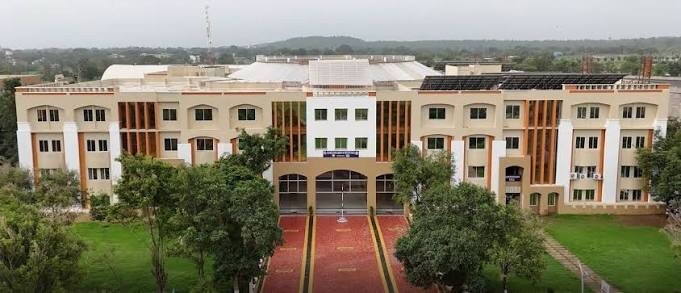
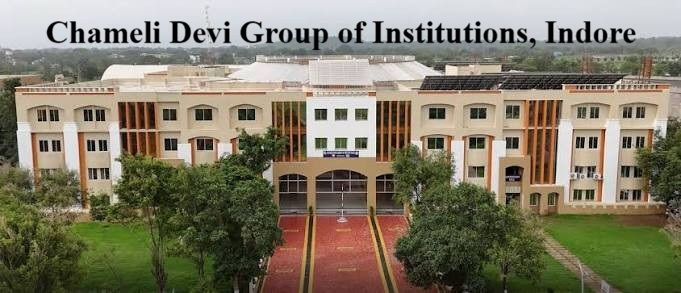
updated

Changed region(s): [[0.0617, 0.0614, 0.9559, 0.1843]]

diff --git a/css/style.css b/css/style.css
@@ -40,7 +40,7 @@ label {
 nav {
     display: flex;
     background-color: #0F172A;
-    padding: 20px;
+    padding: 30px;
 
 }
 
@@ -50,7 +50,8 @@ nav ul {
 }
 
 nav ul a {
-    padding: 20px;
+    padding: 30px;
+    margin: 0;
     text-decoration: none;
     color: white;
 }
@@ -201,6 +202,11 @@ form {
         /* line-height: 30px; */
     }
 
+    header img{
+        width: 100px;
+        height: 100px;
+    }
+
     /* 2. Hide the nav by default */
     nav {
         display: none;
@@ -252,8 +258,22 @@ form {
         padding: 10px;
     }
 
+
+
     aside,
     main {
         padding: 10px;
     }
+
+     aside img{
+        width: 100px;
+        height: 100px;
+    }
+
+      main img{
+        width: 90%;
+        height: 90%;
+    }
+
+
 }

diff --git a/signup.php b/signup.php
@@ -27,7 +27,7 @@ echo "Connection Ok";
     <style>
         fieldset {
             padding: 20px;
-            width:20%
+            width: 20%
         }
 
         input {
@@ -43,20 +43,19 @@ echo "Connection Ok";
     <?php include './include/header.php'; ?>
 
     <main>
-        <form name="f1" action="" method="POST" onsubmit="return checkpwd()">
+        <form name="f1" action="" method="POST" enctype="multipart/form-data" onsubmit="return checkpwd()">
             <fieldset>
                 <legend>Sign Up</legend>
                 <input type="text" name="fname" placeholder="First Name" required>
                 <br /><br /><input type="text" name="lname" placeholder="Last Name" required>
                 <br /><br /><input type="email" name="email" placeholder="Email" required>
-                <br /><br /><input type="password" name="password" id="pwd" pattern="(?=.*\d)(?=.*[a-z])(?=.*[A-Z]).{8,4}" 
-                placeholder="Password" title="Must contain at least one number and one uppercase and lowercase letter, and at least 8 or more characters" required>
-                <input type="checkbox" onclick="showpwd()" class="chkbox">
-                <br /><br /> <input type="password" name="cpassword" id="cpwd" placeholder="Confirm Password" required>
+                <br /><br /><input type="password" name="password" id="pwd" placeholder="Password" required>
+                <button type="button" onclick="showpwd()">&#128065;</button><br />
+               <br /> <input type="password" name="cpassword" id="cpwd" placeholder="Confirm Password" required>
                 <span id="pwdmsg"></span>
                 <br /><br /><input type="submit" value="Register" name="register">
                 <br /><br />
-                <p>Already registered? <a href="login_user.php">Click here to Login</a></p>
+                <p>Already registered? <a href="login.php">Click here to Login</a></p>
             </fieldset>
         </form>
     </main>
@@ -96,7 +95,6 @@ echo "Connection Ok";
         $email = $_POST['email'];
         $pwd = $_POST['password'];
         $cpwd = $_POST['cpassword'];
-
 
         $query = "INSERT INTO signup (fname, lname, email, password, cpassword) VALUES ('$fname', '$lname', '$email','$pwd', '$cpwd')";
 

diff --git a/login.php b/login.php
@@ -1,6 +1,25 @@
 <?php
 session_start();
 include 'connection.php';
+
+// 1. Process the login logic BEFORE any HTML is sent
+if (isset($_POST['login'])) {
+    $email      = $_POST['email'];
+    $password   = $_POST['password'];
+
+    // Note: This query is vulnerable to SQL injection (see security notice below)
+    $query = "SELECT * FROM signup WHERE email = '$email' AND password = '$password'";
+    $data = mysqli_query($conn, $query);
+
+    if (mysqli_num_rows($data) == 1) {
+        $_SESSION['user_name'] = $email;
+        header('location:display_user.php');
+        exit(); // Always use exit after a redirect
+    } else {
+        // Store the error message in a variable to display inside the HTML
+        echo "Incorrect Email or password";
+    }
+}
 ?>
 <!DOCTYPE html>
 <html lang="en">
@@ -13,11 +32,12 @@ include 'connection.php';
     <style>
         fieldset {
             padding: 20px;
-            margin: 50px;
-            width: 200px;
+            width: 20%
         }
 
         input {
+            width: 350px;
+            height: 50px;
             font-size: 20px;
         }
     </style>
@@ -38,22 +58,3 @@ include 'connection.php';
 </body>
 
 </html>
-
-<?php
-if (isset($_POST['login'])) {
-    $email      = $_POST['email'];
-    $password   = $_POST['password'];
-
-    $query = "SELECT * FROM signup WHERE email = '$email' AND password = '$password'";
-
-    $data = mysqli_query($conn, $query);
-
-    if (mysqli_num_rows($data) == 1) {
-       $_SESSION['user_name'] = $email;
-        header('location:display_user.php');
-        exit();
-    } else {
-        echo "Incorrect Email or password";
-    }
-}
-?>

diff --git a/include/header.php b/include/header.php
@@ -89,7 +89,7 @@
 
             <!-- Dropdown JS -->
             <li class="dropdown">
-                <a href="#">JavaScript Topics </a>
+                <a href="#">JavaScript Topics &#9660;</a>
                 <ul class="dropdown-menu">
                     <li style="color:white;">JavaScript Applications</li>
                     <li><a href="/JavaScript_Topics/week3_rps.php">RPS Game</a></li>
@@ -165,7 +165,7 @@
 
             <!-- Right Aligned Items -->
             <ul>
-                <li><a href="/signup.php">Sign Up</a></li>
+                <li><a href="/signup.php">Signup</a></li>
                 <li><a href="/login.php">Login</a></li>
                 <li><a href="/contact.php">Contact Us</a></li>
             </ul>

diff --git a/display_user.php b/display_user.php
@@ -2,7 +2,7 @@
 session_start();
 
 if (!isset($_SESSION['user_name'])) {
-    header('Location: login_user.php');
+    header('Location: login.php');
     exit();
 }
 
@@ -23,7 +23,8 @@ $user_email = $_SESSION['user_name'];
     <?php include './include/header.php'; ?>
     <h1>Welcome <?php echo ($user_email); ?></h1>
 
-    <a class="logout-btn" href="logout.php">Logout</a>
+
+    <a href="logout.php">Logout</a>
 
 </body>
 

diff --git a/index.php b/index.php
@@ -19,6 +19,8 @@
 
     <!-- Setting the viewport to make your website look good on all devices: -->
     <meta name="viewport" content="width=device-width, initial-scale=1.0">
+        <link rel="stylesheet" href="/css/style.css">
+
     <title>HOME</title>
 </head>
 
